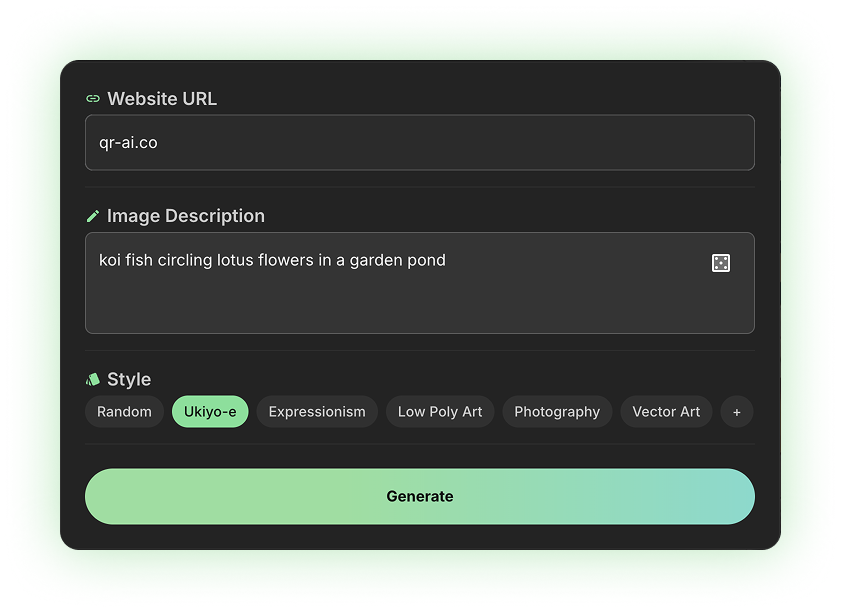
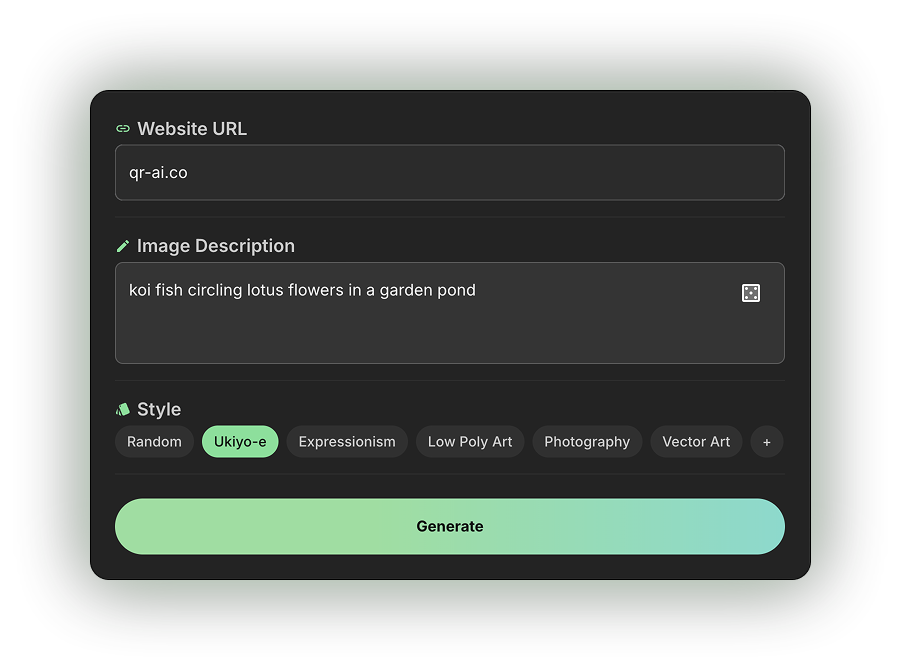
feat(how-it-works): swap in clean screenshots, bake glow into PNGs
Replaced all 4 step images with fresh clean crops (transparent-cornered
UI screenshots, new tattoo-studio product placement for step 4). Added
a soft green glow (x:0 y:0 blur:65 #A0DDA2 @75%, approximated via
Gaussian blur + padding) baked directly into each PNG's alpha channel,
per design direction — moved off the earlier CSS box-shadow approach
onto the images themselves. Card wrapper's border/background stay;
the image container's own border-radius/overflow-hidden was dropped
since the images now carry their own soft transparent edges.

diff --git a/src/app/(marketing)/how-it-works/content.js b/src/app/(marketing)/how-it-works/content.js
@@ -33,8 +33,8 @@ export const steps = [
     number: "1",
     title: "Describe your idea",
     image: "/how-it-works/describe-idea.png",
-    imageWidth: 841,
-    imageHeight: 610,
+    imageWidth: 901,
+    imageHeight: 670,
     imageAlt:
       "QR AI generate form filled in with a website URL, an image description, and the Ukiyo-e style selected",
     description:
@@ -50,8 +50,8 @@ export const steps = [
     number: "2",
     title: "Review your result",
     image: "/how-it-works/review-result.png",
-    imageWidth: 1400,
-    imageHeight: 847,
+    imageWidth: 1285,
+    imageHeight: 857,
     imageAlt:
       "A generated koi fish QR code artwork with its scannability score and an unlock option",
     description:
@@ -70,8 +70,8 @@ export const steps = [
     number: "3",
     title: "Fine-tune your result",
     image: "/how-it-works/fine-tune.png",
-    imageWidth: 1256,
-    imageHeight: 1402,
+    imageWidth: 773,
+    imageHeight: 867,
     imageAlt: "The iterate panel with prompt, style, and QR code weight slider",
     description: "Not happy yet? You've got two ways to get a better result:",
     subsections: [
@@ -103,12 +103,11 @@ export const steps = [
   {
     number: "4",
     title: "Unlock your image",
-    image:
-      "https://qrartimages.s3.us-west-1.amazonaws.com/product-placements/ukiyo-e-restaurant.png",
-    imageWidth: 1086,
-    imageHeight: 1448,
+    image: "/how-it-works/unlock-image.png",
+    imageWidth: 1204,
+    imageHeight: 1545,
     imageAlt:
-      "An unlocked, watermark-free AI QR code art print used as a restaurant menu cover",
+      "An unlocked, watermark-free AI QR code art print displayed as a storefront window decal for a tattoo studio",
     description:
       "Once you're happy with your art, unlock the full-resolution, watermark-free version — ready to print, share, or bring into the real world.",
     checklist: [

diff --git a/src/__tests__/HowItWorksPage.test.js b/src/__tests__/HowItWorksPage.test.js
@@ -51,7 +51,9 @@ test('renders the 4 step images with their alt text', () => {
   ).toBeInTheDocument()
   expect(screen.getByAltText('The iterate panel with prompt, style, and QR code weight slider')).toBeInTheDocument()
   expect(
-    screen.getByAltText('An unlocked, watermark-free AI QR code art print used as a restaurant menu cover')
+    screen.getByAltText(
+      'An unlocked, watermark-free AI QR code art print displayed as a storefront window decal for a tattoo studio'
+    )
   ).toBeInTheDocument()
 })
 

diff --git a/src/app/(marketing)/how-it-works/page.js b/src/app/(marketing)/how-it-works/page.js
@@ -97,8 +97,6 @@ function StepSection({ step }) {
         sx={{
           flex: { md: "0 0 55%" },
           width: "100%",
-          borderRadius: 3,
-          overflow: "hidden",
         }}
       >
         <Image
